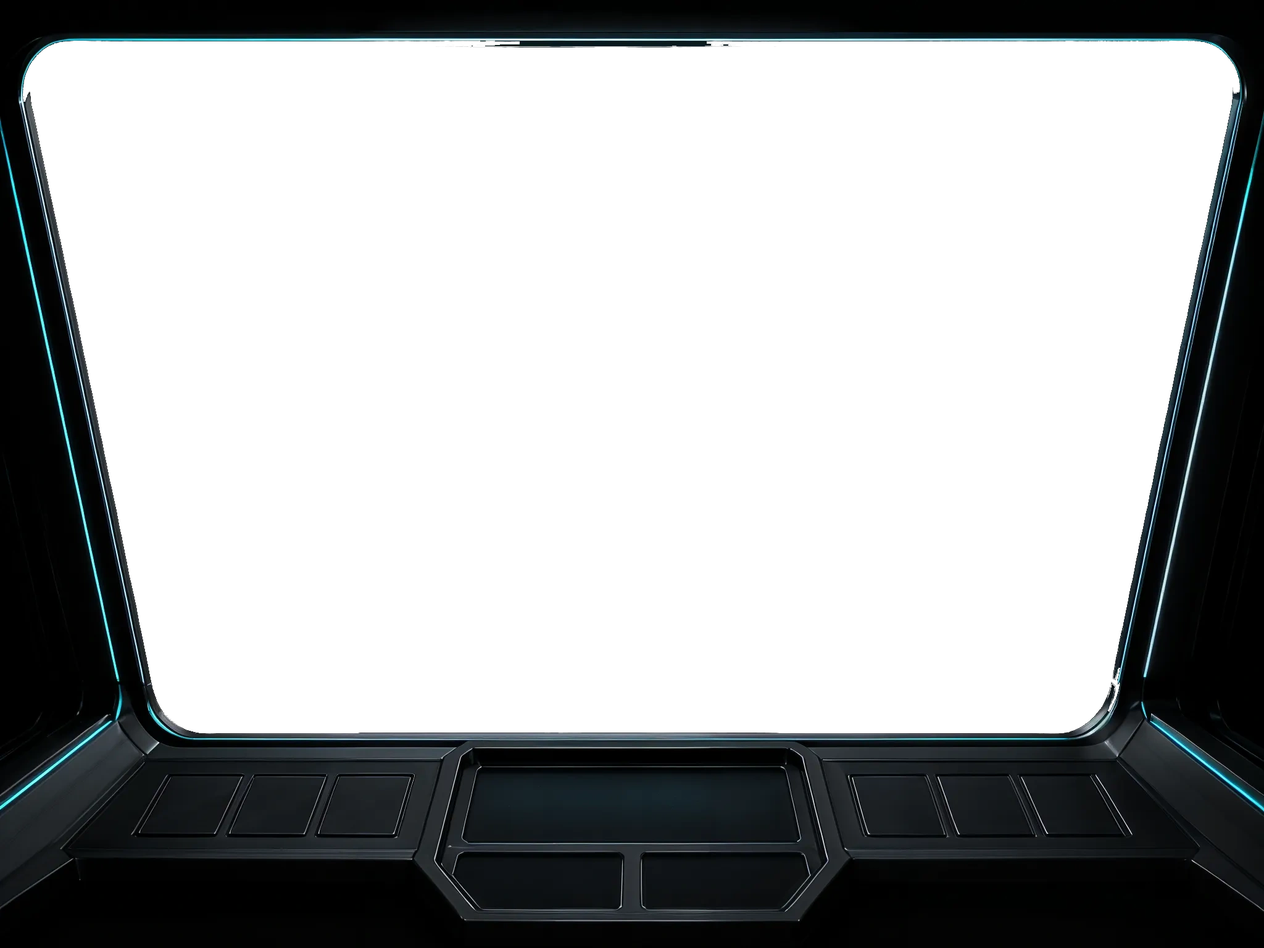
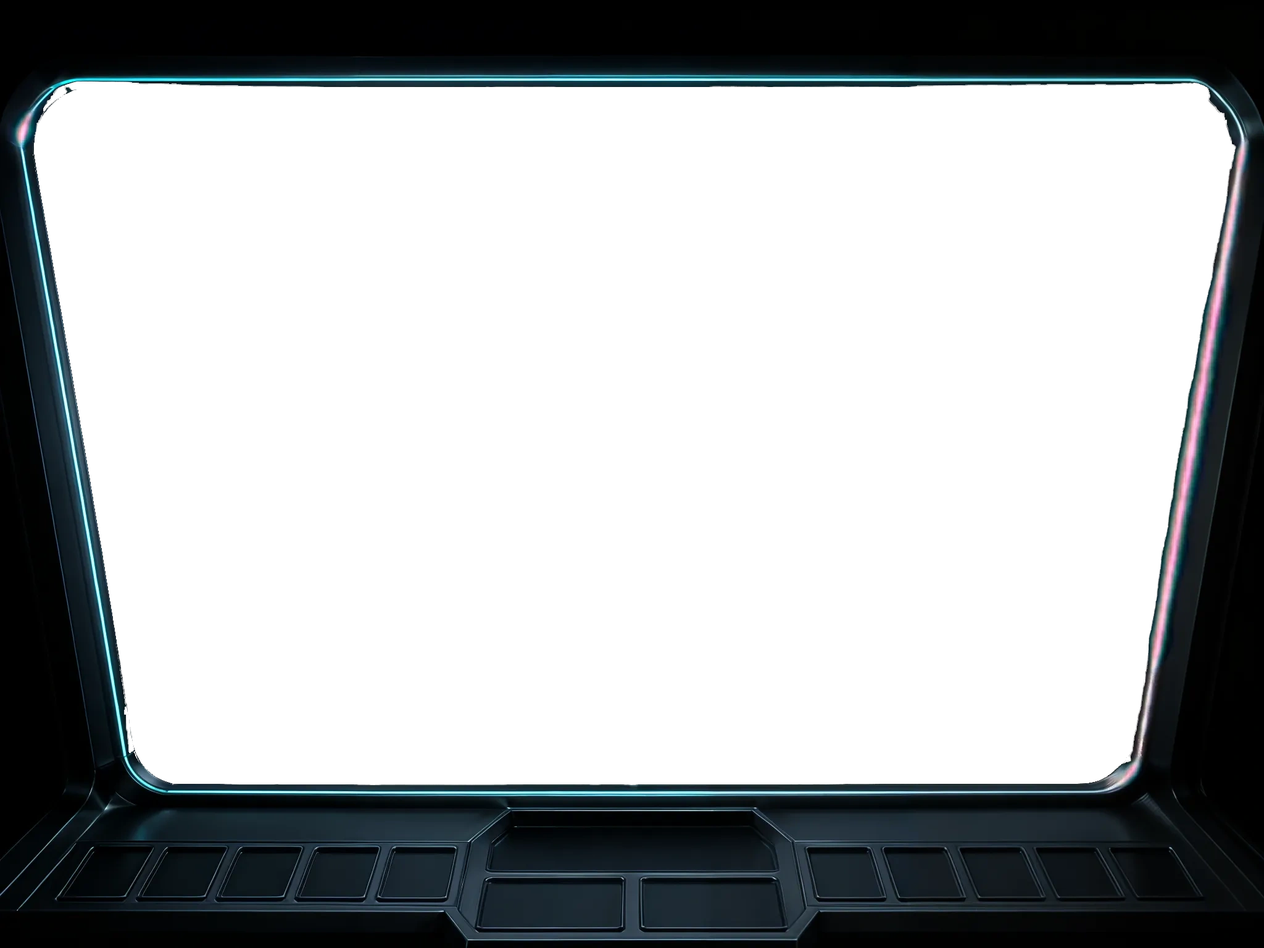
Ровный шаг кнопок на среднем пульте и разбор наложений в космосе
По кадрам заказчика: «кнопки криво, не ровно, не реалистично» и «в
космосе текст и карточки накладываются друг на друга».

КНОПКИ. На средней плите было по три ниши на крыло, в каждую сажали по
две команды - отсюда и неровный шаг: пары с широким зазором между ними
и разной шириной. Плита перерисована кабинетом с шестью одинаковыми
нишами на крыло, из них в кадр входят по пять. Теперь в нишу садится
РОВНО ОДНА команда: шаг точный, размеры одинаковые, кнопка совпадает с
утопленным местом на панели, а не лежит поверх неё.

Двум командам ниши не хватило. Раньше такие висели над пультом двумя
одинокими плитками - ровно то, что заказчик назвал наклейками. Теперь
кнопка без места убирается совсем, а последними в очереди стоят
приближение и отдаление: колесо мыши и щипок делают то же самое, так
что человек ничего не теряет.

НАЛОЖЕНИЯ. Две разные беды.

Подписи тел (УРАН, НЕПТУН, ЧЁРНАЯ ДЫРА) разводились только между собой
и ничего не знали о постоянных панелях рубки: чипе сети, карточке
задания, подсказке, крестике, голограмме логотипа. Теперь их
прямоугольники снимаются раз в полсекунды, и подпись сначала ОТВОДИТСЯ
по вертикали короткими шагами и лишь потом прячется. Прежде выбор был
один - спрятать, и с экрана пропадали тела, до которых человек
собирался лететь.

Строка состояния и карточка задания налезали друг на друга сами:
строка тянется от центра в обе стороны, на широком экране до карточки
не достаёт, на четыре к трём достаёт. Карточка опущена ниже строки.
[…]

Changed region(s): [[0.0, 0.0312, 1.0, 1.0]]

diff --git a/rocketcdn/assets/rc-flight.js b/rocketcdn/assets/rc-flight.js
@@ -3769,6 +3769,46 @@ function holoFrame(w3, ts) {
      (соседние планеты чужой системы с большой дистанции), разводить
      нечего: подписи ложатся друг на друга. Такие метки честнее не
      показывать вовсе - долететь всё равно можно по кнопке в пульте. */
+  /* ── Чужие панели, на которые метку ставить нельзя ──
+     Заказчик прислал кадр: подпись «УРАН» лежит на чипе «СЕТЬ
+     ПУСТА», «САТУРН» уходит под карточку подсказки, «НЕПТУН»
+     наезжает на строку состояния. Разведение меток между собой было,
+     а вот про постоянные панели рубки они не знали ничего.
+
+     Снимаем их прямоугольники и держим метки в стороне. Снимаем не
+     каждый кадр: панели стоят на месте, а съём геометрии заставляет
+     браузер пересчитать вёрстку. Раз в полсекунды с запасом хватает. */
+  if (!holoFrame._зона) { holoFrame._зона = []; holoFrame._зонаT = 0; }
+  var зона = holoFrame._зона;
+  if (ui.wrap && (!holoFrame._зонаT || ts - holoFrame._зонаT > 500)) {
+    holoFrame._зонаT = ts;
+    зона.length = 0;
+    var панели = ui.wrap.querySelectorAll(
+      ".rcf-netlist, .rcf-hint, .rcf-cap, .rcf-close, .rcf-holo, .rcf-brief-card, " +
+      ".rcf-info, .rcf-mis, .rc-vpn-projector, .rcf-goal, .rcf-toast");
+    for (var пи = 0; пи < панели.length; пи++) {
+      var пэ = панели[пи], пс = getComputedStyle(пэ);
+      if (пс.display === "none" || пс.visibility === "hidden" || +пс.opacity < 0.06) continue;
+      var пр = пэ.getBoundingClientRect();
+      if (пр.width < 24 || пр.height < 10) continue;
+      зона.push([пр.left - 8, пр.top - 6, пр.right + 8, пр.bottom + 6]);
+    }
+  }
+  /* Прямоугольник самой метки: карточка висит вправо от точки
+     крепления, поэтому влево от неё почти ничего нет. */
+  function крыло(x, y, d) {
+    var k = 1 - d * 0.35;
+    return [x - 12, y - 26 * k, x + 232 * k, y + 26 * k];
+  }
+  function бьётся(a, b) {
+    return !(a[2] < b[0] || a[0] > b[2] || a[3] < b[1] || a[1] > b[3]);
+  }
+  function наПанели(x, y, d) {
+    var r = крыло(x, y, d);
+    for (var зи = 0; зи < зона.length; зи++) if (бьётся(r, зона[зи])) return true;
+    return false;
+  }
+
   if (!holoFrame._px) { holoFrame._px = []; holoFrame._py = []; }
   var pxs = holoFrame._px, pys = holoFrame._py, pn = 0;
   /* Порог не круглый, а по форме карточки: она вытянута вправо на
@@ -3839,14 +3879,27 @@ function holoFrame(w3, ts) {
     var depth = Math.max(0, Math.min(0.55, (dist - 120) / 2600));
     var on = vis && !F.brief && shown < limit;
     if (on) {
-      /* Ближние метки идут первыми (список отсортирован), поэтому
-         прячется всегда дальняя из пары - так и правильно */
-      for (var pj = 0; pj < pn; pj++) {
-        var gdx = pxs[pj] - sx, gdy = pys[pj] - sy;
-        if (gdx < 0) gdx = -gdx;
-        if (gdy < 0) gdy = -gdy;
-        if (gdx < gapX && gdy < gapY) { on = false; break; }
+      /* Метку сначала пробуем ОТВЕСТИ, и только потом прячем.
+         Раньше выбор был один - спрятать, и с экрана пропадали тела,
+         до которых человек собирался лететь. Уводим по вертикали
+         короткими шагами в обе стороны: подпись остаётся у своего
+         тела, а на чужую панель или на соседнюю метку не ложится. */
+      var шаги = [0, 34, -34, 68, -68, 104, -104, 146, -146];
+      var нашли = false;
+      for (var ш = 0; ш < шаги.length && !нашли; ш++) {
+        var yП = sy + шаги[ш];
+        if (yП < padY || yП > innerHeight - padY * 1.6) continue;
+        if (наПанели(sx, yП, depth)) continue;
+        var чисто = true;
+        for (var pj = 0; pj < pn; pj++) {
+          var gdx = pxs[pj] - sx, gdy = pys[pj] - yП;
+          if (gdx < 0) gdx = -gdx;
+          if (gdy < 0) gdy = -gdy;
+          if (gdx < gapX && gdy < gapY) { чисто = false; break; }
+        }
+        if (чисто) { sy = yП; нашли = true; }
       }
+      if (!нашли) on = false;
     }
     if (on) { pxs[pn] = sx; pys[pn] = sy; pn++; shown++; }
     try { g.RC_HOLO.place(id, sx, sy, depth, on); } catch (e3) {}
@@ -3869,6 +3922,7 @@ function physicalControlsFrame(ts, dt) {
   if (!cabin || !cabin.controlCaps || !ui.wrap) return;
   if (!physicalControlsFrame.nodes) {
     physicalControlsFrame.nodes = [
+      /* Тот же порядок, что и в deckFrame: зум последний. */
       ui.wrap.querySelector(".rcf-navkey"),
       ui.wrap.querySelector(".rcf-scan-key"),
       ui.wrap.querySelector(".rcf-deploy"),
@@ -3877,10 +3931,10 @@ function physicalControlsFrame(ts, dt) {
       ui.wrap.querySelector(".rcf-stop-key"),
       ui.wrap.querySelector(".rcf-thr"),
       ui.wrap.querySelector(".rcf-map-key"),
-      ui.wrap.querySelector(".rcf-zoom-in"),
-      ui.wrap.querySelector(".rcf-zoom-out"),
       ui.wrap.querySelector(".rcf-shot"),
-      ui.wrap.querySelector(".rcf-help-key")
+      ui.wrap.querySelector(".rcf-help-key"),
+      ui.wrap.querySelector(".rcf-zoom-in"),
+      ui.wrap.querySelector(".rcf-zoom-out")
     ];
   }
   for (var pi = 0; pi < cabin.controlCaps.length; pi++) {
@@ -6210,12 +6264,19 @@ function deckFrame(ts, dt) {
   var nodes = physicalControlsFrame.nodes;
   if (!nodes && ui.wrap) {
     physicalControlsFrame.nodes = nodes = [
+      /* Порядок = очерёдность на пульт. Первые занимают ниши, лишние
+         остаются без места. Приближение и отдаление стоят последними
+         намеренно: колесо мыши и щипок делают то же самое, и если
+         паре не хватит ниши, человек ничего не теряет. Раньше
+         последними были кадр и справка, и на плите с десятью нишами
+         они висели над пультом двумя одинокими наклейками - заказчик
+         это и назвал «кнопки криво, не единым целым». */
       ui.wrap.querySelector(".rcf-navkey"), ui.wrap.querySelector(".rcf-scan-key"),
       ui.wrap.querySelector(".rcf-deploy"), ui.wrap.querySelector(".rcf-fire-key"),
       ui.wrap.querySelector(".rcf-auto-key"), ui.wrap.querySelector(".rcf-stop-key"),
       ui.wrap.querySelector(".rcf-thr"), ui.wrap.querySelector(".rcf-map-key"),
-      ui.wrap.querySelector(".rcf-zoom-in"), ui.wrap.querySelector(".rcf-zoom-out"),
-      ui.wrap.querySelector(".rcf-shot"), ui.wrap.querySelector(".rcf-help-key")
+      ui.wrap.querySelector(".rcf-shot"), ui.wrap.querySelector(".rcf-help-key"),
+      ui.wrap.querySelector(".rcf-zoom-in"), ui.wrap.querySelector(".rcf-zoom-out")
     ];
   }
 
@@ -6240,6 +6301,8 @@ function deckFrame(ts, dt) {
   for (var i = 0; i < мест; i++) {
     var el = nodes && nodes[i];
     if (!el) continue;
+    /* Ниша появилась после смены размера окна - возвращаем кнопку */
+    if (el.style.display === "none") el.style.removeProperty("display");
     var жив = el.matches(":active") || el.classList.contains("cur") ||
               el.classList.contains("live") ||
               el.getAttribute("aria-pressed") === "true" ||
@@ -6277,14 +6340,18 @@ function deckFrame(ts, dt) {
      все двенадцать кнопок разом, и если следующего кадра не
      случалось, пульт оставался без единой рабочей клавиши. Приёмка
      поймала это на 1920: рама есть, холст есть, клавиш ноль. */
+  /* Команде не хватило ниши - её кнопка не висит над пультом
+     наклейкой, а уходит совсем. Пульт либо целое, либо ничто:
+     две одиноких плитки на раме ломают всю картину. */
   for (var j = мест; мест && nodes && j < nodes.length; j++) {
     var e2 = nodes[j];
-    if (e2 && e2.classList.contains("rcf-phys-hit")) {
+    if (!e2) continue;
+    if (e2.classList.contains("rcf-phys-hit")) {
       e2.classList.remove("rcf-phys-hit");
-      e2.style.removeProperty("display");
       e2.style.removeProperty("position");
       e2.style.removeProperty("transform");
     }
+    e2.style.display = "none";
   }
   d["кадр"](Math.min(0.05, dt || 0.016));
 }

diff --git a/rocketcdn/assets/gen/cab/flat.js b/rocketcdn/assets/gen/cab/flat.js
@@ -1,2 +1,2 @@
 /* Паспорт плоской рамы. Собран tools/cabflat.py, руками не править. */
-window.RC_CAB_FLAT = {"широкая":{"файл":"assets/gen/cockpit-wide-hd.webp","w":2688,"h":1536,"контур":[[0.88207,0.41574],[0.86682,0.47191],[0.85268,0.52458],[0.83891,0.57468],[0.82589,0.62335],[0.81303,0.67122],[0.80022,0.71912],[0.78497,0.76499],[0.75906,0.79622],[0.71849,0.79818],[0.68333,0.79818],[0.65297,0.79818],[0.62613,0.79818],[0.60203,0.79883],[0.57557,0.7793],[0.55552,0.77865],[0.53659,0.7793],[0.51813,0.7793],[0.49995,0.7793],[0.48178,0.7793],[0.46332,0.7793],[0.44429,0.7793],[0.42434,0.7793],[0.39805,0.79818],[0.37357,0.79883],[0.34667,0.79883],[0.31658,0.79818],[0.28105,0.79883],[0.2404,0.79687],[0.21442,0.76562],[0.19978,0.71903],[0.18713,0.67102],[0.17411,0.62329],[0.16109,0.57464],[0.14732,0.52455],[0.13281,0.47195],[0.11793,0.41574],[0.10119,0.35469],[0.08296,0.28707],[0.0625,0.21061],[0.06027,0.13568],[0.10777,0.0957],[0.1832,0.0957],[0.23878,0.0957],[0.28201,0.0957],[0.31708,0.0957],[0.3465,0.0957],[0.3719,0.0957],[0.39437,0.0957],[0.41468,0.0957],[0.43353,0.09635],[0.45075,0.0944],[0.46771,0.0957],[0.48392,0.09505],[0.49995,0.0944],[0.51599,0.09505],[0.5322,0.0957],[0.54916,0.0944],[0.56652,0.0957],[0.58523,0.0957],[0.60554,0.0957],[0.62801,0.0957],[0.65341,0.0957],[0.68304,0.09535],[0.7179,0.0957],[0.76272,0.09375],[0.81735,0.09505],[0.89453,0.09375],[0.94006,0.13542],[0.9375,0.21057],[0.91667,0.28715],[0.89844,0.35473]],"коробка":{"l":0.05171,"r":0.94978,"t":0.09375,"b":0.79818},"поля":{"слева":0.05171,"справа":0.05022,"сверху":0.09375,"снизу":0.20182}},"средняя":{"файл":"assets/gen/cockpit-mid-hd.webp","w":2048,"h":1536,"контур":[[0.92969,0.39239],[0.92187,0.44167],[0.91455,0.48998],[0.90723,0.53807],[0.89941,0.58649],[0.89209,0.63651],[0.88379,0.68825],[0.87343,0.74154],[0.84004,0.77344],[0.78524,0.77344],[0.73926,0.77344],[0.69956,0.77344],[0.66445,0.77344],[0.63272,0.77344],[0.60329,0.77279],[0.5759,0.77279],[0.54976,0.77279],[0.52441,0.77279],[0.49945,0.77279],[0.47449,0.77279],[0.44915,0.77279],[0.42301,0.77279],[0.39561,0.77279],[0.36642,0.77279],[0.33474,0.77279],[0.29969,0.77279],[0.25965,0.77344],[0.21367,0.77344],[0.15887,0.77344],[0.125,0.74198],[0.11523,0.68816],[0.10742,0.63613],[0.09929,0.58659],[0.09229,0.53786],[0.08447,0.48995],[0.07715,0.44165],[0.06934,0.39239],[0.06152,0.34131],[0.05322,0.28748],[0.04395,0.22965],[0.03369,0.16636],[0.01808,0.0931],[0.04723,0.04427],[0.12588,0.04362],[0.18772,0.04362],[0.23788,0.04362],[0.27996,0.04362],[0.3163,0.04362],[0.34815,0.04297],[0.37725,0.04297],[0.40567,0.04883],[0.43041,0.04883],[0.45419,0.05013],[0.47691,0.04883],[0.49945,0.04883],[0.52191,0.05013],[0.54489,0.04883],[0.56967,0.04297],[0.59466,0.04362],[0.62143,0.04362],[0.65048,0.04362],[0.68261,0.04362],[0.71894,0.04362],[0.76103,0.04362],[0.81119,0.04362],[0.87303,0.04362],[0.95168,0.04427],[0.98096,0.09302],[0.96582,0.16607],[0.95557,0.22944],[0.94629,0.28734],[0.9375,0.34129]],"коробка":{"l":0.01807,"r":0.98047,"t":0.04297,"b":0.77344},"поля":{"слева":0.01807,"справа":0.01953,"сверху":0.04297,"снизу":0.22656}},"высокая":{"файл":"assets/gen/cockpit-tall-hd.webp","w":1536,"h":2499,"контур":[[0.81771,0.46086],[0.81771,0.47796],[0.81771,0.49532],[0.81771,0.51323],[0.81836,0.53214],[0.81706,0.55181],[0.81836,0.57393],[0.81706,0.59743],[0.81836,0.62519],[0.82682,0.66191],[0.83594,0.70714],[0.84635,0.76513],[0.83137,0.81393],[0.76759,0.81393],[0.70857,0.81353],[0.65312,0.81272],[0.59608,0.79672],[0.54754,0.79672],[0.49973,0.79672],[0.45193,0.79672],[0.40338,0.79672],[0.34791,0.80912],[0.29066,0.81393],[0.23188,0.81393],[0.16922,0.81272],[0.15299,0.76523],[0.16471,0.70627],[0.17318,0.66158],[0.18034,0.62559],[0.18164,0.59776],[0.18164,0.57374],[0.18164,0.55203],[0.18164,0.53202],[0.18164,0.51325],[0.18164,0.49534],[0.18164,0.47797],[0.18164,0.46086],[0.17904,0.44362],[0.17643,0.42582],[0.17318,0.40708],[0.17057,0.38723],[0.16667,0.3654],[0.16341,0.34151],[0.15951,0.31444],[0.15495,0.28304],[0.14974,0.24574],[0.14323,0.19972],[0.13737,0.14278],[0.17847,0.11885],[0.24026,0.11885],[0.2972,0.11885],[0.35063,0.11885],[0.40563,0.13285],[0.4531,0.13325],[0.49973,0.13325],[0.54636,0.13325],[0.59372,0.13325],[0.64866,0.11925],[0.70226,0.11885],[0.75921,0.11885],[0.82099,0.11885],[0.86328,0.14174],[0.85742,0.19885],[0.85091,0.24501],[0.8457,0.28243],[0.84115,0.31393],[0.83659,0.34132],[0.83333,0.36525],[0.83008,0.38696],[0.82682,0.40699],[0.82357,0.42577],[0.82096,0.44359]],"коробка":{"l":0.13737,"r":0.86328,"t":0.10684,"b":0.81393},"поля":{"слева":0.13737,"справа":0.13672,"сверху":0.10684,"снизу":0.18607}}};
+window.RC_CAB_FLAT = {"широкая":{"файл":"assets/gen/cockpit-wide-hd.webp","w":2688,"h":1536,"контур":[[0.88207,0.41574],[0.86682,0.47191],[0.85268,0.52458],[0.83891,0.57468],[0.82589,0.62335],[0.81303,0.67122],[0.80022,0.71912],[0.78497,0.76499],[0.75906,0.79622],[0.71849,0.79818],[0.68333,0.79818],[0.65297,0.79818],[0.62613,0.79818],[0.60203,0.79883],[0.57557,0.7793],[0.55552,0.77865],[0.53659,0.7793],[0.51813,0.7793],[0.49995,0.7793],[0.48178,0.7793],[0.46332,0.7793],[0.44429,0.7793],[0.42434,0.7793],[0.39805,0.79818],[0.37357,0.79883],[0.34667,0.79883],[0.31658,0.79818],[0.28105,0.79883],[0.2404,0.79687],[0.21442,0.76562],[0.19978,0.71903],[0.18713,0.67102],[0.17411,0.62329],[0.16109,0.57464],[0.14732,0.52455],[0.13281,0.47195],[0.11793,0.41574],[0.10119,0.35469],[0.08296,0.28707],[0.0625,0.21061],[0.06027,0.13568],[0.10777,0.0957],[0.1832,0.0957],[0.23878,0.0957],[0.28201,0.0957],[0.31708,0.0957],[0.3465,0.0957],[0.3719,0.0957],[0.39437,0.0957],[0.41468,0.0957],[0.43353,0.09635],[0.45075,0.0944],[0.46771,0.0957],[0.48392,0.09505],[0.49995,0.0944],[0.51599,0.09505],[0.5322,0.0957],[0.54916,0.0944],[0.56652,0.0957],[0.58523,0.0957],[0.60554,0.0957],[0.62801,0.0957],[0.65341,0.0957],[0.68304,0.09535],[0.7179,0.0957],[0.76272,0.09375],[0.81735,0.09505],[0.89453,0.09375],[0.94006,0.13542],[0.9375,0.21057],[0.91667,0.28715],[0.89844,0.35473]],"коробка":{"l":0.05171,"r":0.94978,"t":0.09375,"b":0.79818},"поля":{"слева":0.05171,"справа":0.05022,"сверху":0.09375,"снизу":0.20182}},"средняя":{"файл":"assets/gen/cockpit-mid-hd.webp","w":2048,"h":1536,"контур":[[0.9375,0.44601],[0.93018,0.49615],[0.9248,0.5458],[0.91846,0.59538],[0.91309,0.6463],[0.90771,0.69928],[0.90088,0.75433],[0.88672,0.80671],[0.84074,0.82682],[0.78598,0.82682],[0.74002,0.82682],[0.70035,0.82682],[0.66555,0.82747],[0.63378,0.82747],[0.6045,0.82747],[0.57703,0.82747],[0.55081,0.82747],[0.5254,0.82747],[0.50037,0.82812],[0.47534,0.82747],[0.44992,0.82747],[0.42371,0.82747],[0.39606,0.82812],[0.36673,0.82812],[0.33491,0.82812],[0.2997,0.82812],[0.2603,0.82747],[0.21427,0.82747],[0.15999,0.82682],[0.11328,0.8074],[0.09961,0.75451],[0.09521,0.69792],[0.08861,0.64583],[0.08252,0.59529],[0.07617,0.54574],[0.06982,0.49623],[0.06348,0.44601],[0.05713,0.39431],[0.0498,0.34008],[0.04248,0.28242],[0.03418,0.21977],[0.02686,0.15161],[0.04395,0.09466],[0.11678,0.08789],[0.18202,0.08984],[0.23422,0.09115],[0.27745,0.0918],[0.31435,0.0918],[0.34699,0.0918],[0.37649,0.0918],[0.40367,0.0918],[0.42918,0.0918],[0.45352,0.0918],[0.47713,0.0918],[0.50037,0.0918],[0.52361,0.0918],[0.54721,0.0918],[0.57168,0.09115],[0.59706,0.0918],[0.62425,0.0918],[0.65375,0.0918],[0.68639,0.0918],[0.72369,0.09115],[0.76798,0.08919],[0.81988,0.08854],[0.88256,0.08919],[0.95628,0.09505],[0.97461,0.15115],[0.96924,0.21847],[0.95996,0.28181],[0.95117,0.34003],[0.94434,0.39422]],"коробка":{"l":0.02686,"r":0.97705,"t":0.08594,"b":0.82747},"поля":{"слева":0.02686,"справа":0.02295,"сверху":0.08594,"снизу":0.17253}},"высокая":{"файл":"assets/gen/cockpit-tall-hd.webp","w":1536,"h":2499,"контур":[[0.81771,0.46086],[0.81771,0.47796],[0.81771,0.49532],[0.81771,0.51323],[0.81836,0.53214],[0.81706,0.55181],[0.81836,0.57393],[0.81706,0.59743],[0.81836,0.62519],[0.82682,0.66191],[0.83594,0.70714],[0.84635,0.76513],[0.83137,0.81393],[0.76759,0.81393],[0.70857,0.81353],[0.65312,0.81272],[0.59608,0.79672],[0.54754,0.79672],[0.49973,0.79672],[0.45193,0.79672],[0.40338,0.79672],[0.34791,0.80912],[0.29066,0.81393],[0.23188,0.81393],[0.16922,0.81272],[0.15299,0.76523],[0.16471,0.70627],[0.17318,0.66158],[0.18034,0.62559],[0.18164,0.59776],[0.18164,0.57374],[0.18164,0.55203],[0.18164,0.53202],[0.18164,0.51325],[0.18164,0.49534],[0.18164,0.47797],[0.18164,0.46086],[0.17904,0.44362],[0.17643,0.42582],[0.17318,0.40708],[0.17057,0.38723],[0.16667,0.3654],[0.16341,0.34151],[0.15951,0.31444],[0.15495,0.28304],[0.14974,0.24574],[0.14323,0.19972],[0.13737,0.14278],[0.17847,0.11885],[0.24026,0.11885],[0.2972,0.11885],[0.35063,0.11885],[0.40563,0.13285],[0.4531,0.13325],[0.49973,0.13325],[0.54636,0.13325],[0.59372,0.13325],[0.64866,0.11925],[0.70226,0.11885],[0.75921,0.11885],[0.82099,0.11885],[0.86328,0.14174],[0.85742,0.19885],[0.85091,0.24501],[0.8457,0.28243],[0.84115,0.31393],[0.83659,0.34132],[0.83333,0.36525],[0.83008,0.38696],[0.82682,0.40699],[0.82357,0.42577],[0.82096,0.44359]],"коробка":{"l":0.13737,"r":0.86328,"t":0.10684,"b":0.81393},"поля":{"слева":0.13737,"справа":0.13672,"сверху":0.10684,"снизу":0.18607}}};

diff --git a/rocketcdn/assets/rc-flight.css b/rocketcdn/assets/rc-flight.css
@@ -1612,6 +1612,13 @@ html.rc-stage #spaceBg { opacity: 0 !important; }
    Одна строка: что делаем, зачем и сколько осталось. Стоит у
    левого борта, на вертикальной приборной панели корпуса - там же,
    где в кабине и положено висеть полётному заданию. */
+/* Карточка задания стоит у левого борта, а по центру над ней висит
+   строка состояния («САТУРН · 1,4 млрд км от ваших пользователей»).
+   На четыре к трём они наезжали друг на друга: заказчик прислал кадр,
+   где начало строки уходит под карточку. Строка тянется от центра в
+   обе стороны и на широком экране до карточки не достаёт, а на
+   квадратном экране достаёт. Опускаем карточку ниже строки - место
+   слева от неё всё равно пустое. */
 .rc-flight .rcf-mis {
   position: absolute;
   left: clamp(30px, 4.4vw, 68px);
@@ -4050,8 +4057,22 @@ html.rc-deep-inside .rcf-fab {
   font-size: clamp(9px, 1.1vw, 12px) !important;
   line-height: 1.2;
 }
+/* Карточка задания стоит НИЖЕ строки состояния, а не вровень с ней.
+
+   Строка («САТУРН · 1,4 млрд км от ваших пользователей») висит по
+   центру вверху и тянется в обе стороны от центра. На широком экране
+   до карточки она не достаёт, на квадратном достаёт: заказчик
+   прислал кадр четыре к трём, где начало строки уходит под карточку.
+
+   Опускаем безусловно. Через признак «строка показана» не выйдет:
+   класс has-info ставится только для служебных сообщений, а подпись
+   тела висит и без него - проверено живьём. Место под строкой слева
+   всё равно пустое, так что вид ничего не теряет. */
 .rc-flight .rcf-hud > .rcf-mis {
-  top: 45px !important;
+  top: 96px !important;
+}
+@media (max-width: 760px) {
+  .rc-flight .rcf-hud > .rcf-mis { top: 74px !important; }
 }
 .rc-flight .rcf-hud .rcf-hint {
   top: auto !important;

diff --git a/rocketcdn/assets/gen/cab/deck.js b/rocketcdn/assets/gen/cab/deck.js
@@ -33,17 +33,21 @@ window.RC_CAB_DECK = {
   },
   "средняя": {
     "экраны": [
-      { "ид": "навигатор", "угол": [[0.3690,0.8125],[0.6295,0.8125],[0.6295,0.8855],[0.3690,0.8855]] },
-      { "ид": "радар", "угол": [[0.3615,0.9015],[0.4905,0.9015],[0.4905,0.9550],[0.3615,0.9550]] },
-      { "ид": "тяга",  "угол": [[0.5095,0.9015],[0.6365,0.9015],[0.6365,0.9555],[0.5095,0.9555]] }
+      { "ид": "навигатор", "угол": [[0.3730,0.8580],[0.6215,0.8580],[0.6215,0.9155],[0.3730,0.9155]] },
+      { "ид": "радар", "угол": [[0.3780,0.9285],[0.4920,0.9285],[0.4920,0.9800],[0.3780,0.9800]] },
+      { "ид": "тяга",  "угол": [[0.5098,0.9285],[0.6200,0.9285],[0.6200,0.9745],[0.5098,0.9745]] }
     ],
     "полосы": [
-      { "мест": 2, "угол": [[0.1133,0.8215],[0.1885,0.8215],[0.1885,0.8790],[0.1133,0.8790]] },
-      { "мест": 2, "угол": [[0.1841,0.8215],[0.2554,0.8215],[0.2554,0.8790],[0.1841,0.8790]] },
-      { "мест": 2, "угол": [[0.2534,0.8215],[0.3228,0.8215],[0.3228,0.8790],[0.2534,0.8790]] },
-      { "мест": 2, "угол": [[0.6772,0.8215],[0.7466,0.8215],[0.7466,0.8790],[0.6772,0.8790]] },
-      { "мест": 2, "угол": [[0.7446,0.8215],[0.8159,0.8215],[0.8159,0.8790],[0.7446,0.8790]] },
-      { "мест": 2, "угол": [[0.8115,0.8215],[0.8867,0.8215],[0.8867,0.8790],[0.8115,0.8790]] }
+      { "мест": 1, "угол": [[0.0522,0.8942],[0.1177,0.8942],[0.1177,0.9445],[0.0522,0.9445]] },
+      { "мест": 1, "угол": [[0.1143,0.8942],[0.1782,0.8942],[0.1782,0.9445],[0.1143,0.9445]] },
+      { "мест": 1, "угол": [[0.1763,0.8942],[0.2378,0.8942],[0.2378,0.9445],[0.1763,0.9445]] },
+      { "мест": 1, "угол": [[0.2363,0.8942],[0.2988,0.8942],[0.2988,0.9445],[0.2363,0.9445]] },
+      { "мест": 1, "угол": [[0.3003,0.8942],[0.3594,0.8942],[0.3594,0.9445],[0.3003,0.9445]] },
+      { "мест": 1, "угол": [[0.6387,0.8942],[0.6963,0.8942],[0.6963,0.9445],[0.6387,0.9445]] },
+      { "мест": 1, "угол": [[0.6997,0.8942],[0.7583,0.8942],[0.7583,0.9445],[0.6997,0.9445]] },
+      { "мест": 1, "угол": [[0.7598,0.8942],[0.8218,0.8942],[0.8218,0.9445],[0.7598,0.9445]] },
+      { "мест": 1, "угол": [[0.8203,0.8942],[0.8833,0.8942],[0.8833,0.9445],[0.8203,0.9445]] },
+      { "мест": 1, "угол": [[0.8809,0.8942],[0.9453,0.8942],[0.9453,0.9445],[0.8809,0.9445]] }
     ]
   },
   "высокая": {
